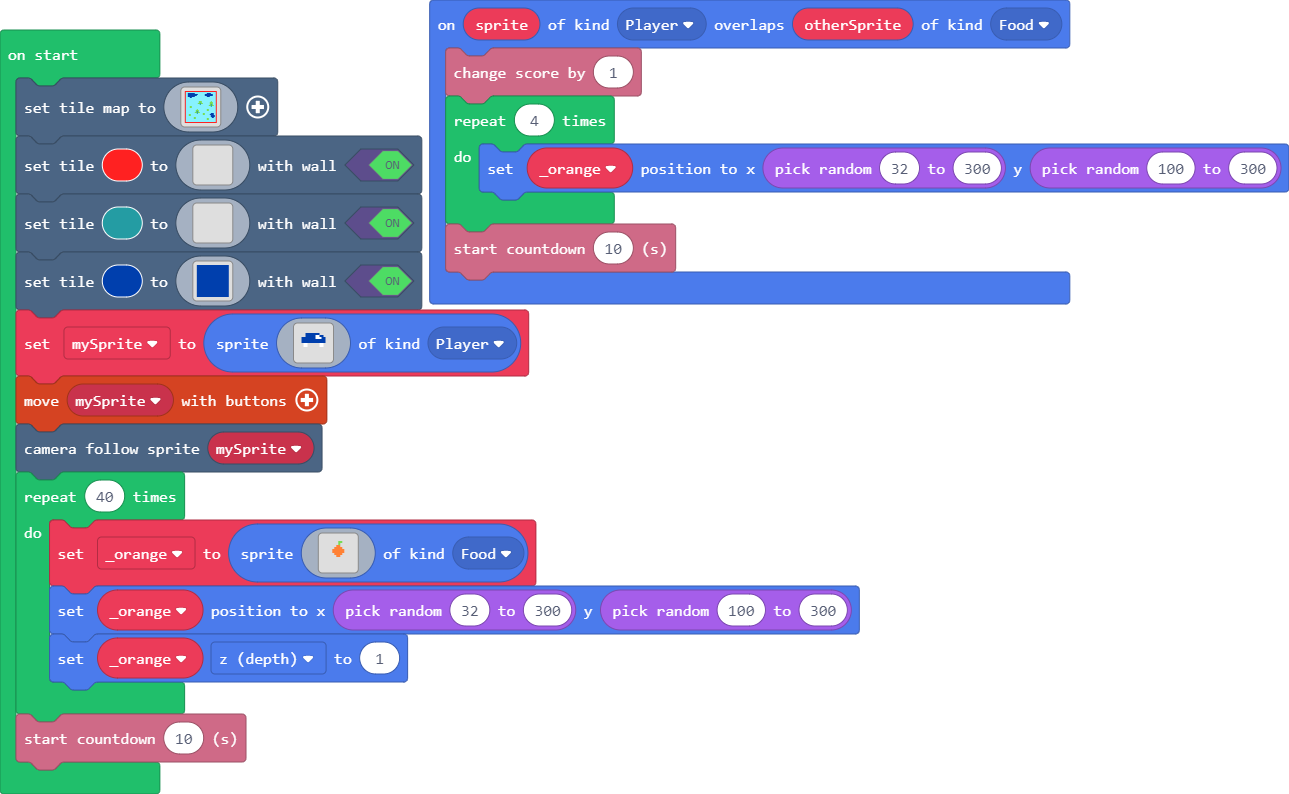
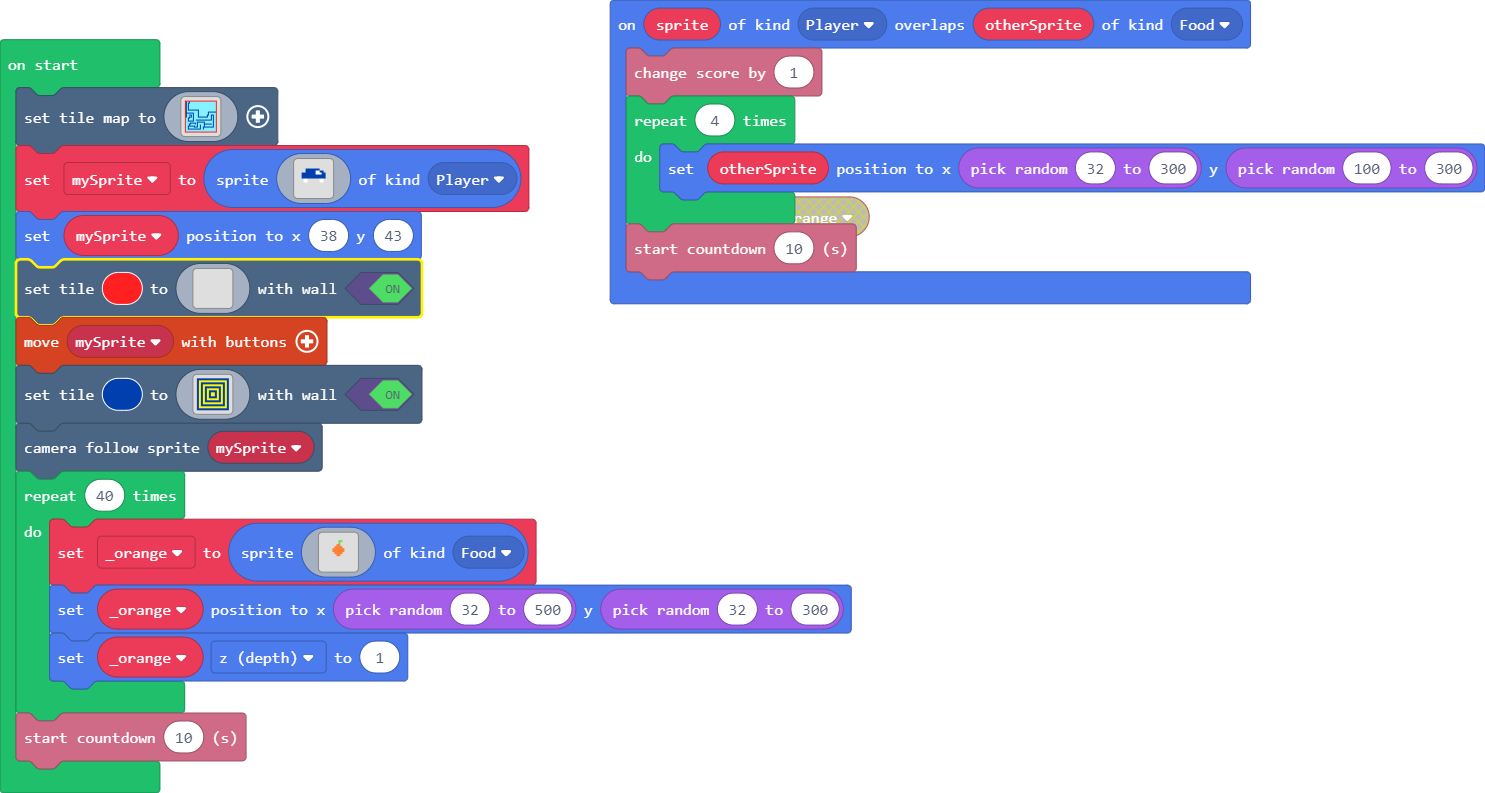
REAl final maze

Changed region(s): [[0.0, 0.0, 1.0, 1.0], [0.8068, 0.3329, 0.8689, 0.3934]]

diff --git a/main.ts b/main.ts
@@ -1,99 +1,45 @@
 sprites.onOverlap(SpriteKind.Player, SpriteKind.Food, function (sprite, otherSprite) {
     info.changeScoreBy(1)
     for (let index = 0; index < 4; index++) {
-        _orange.setPosition(Math.randomRange(32, 300), Math.randomRange(100, 300))
+        otherSprite.setPosition(Math.randomRange(32, 300), Math.randomRange(100, 300))
     }
     info.startCountdown(10)
 })
 let _orange: Sprite = null
 scene.setTileMap(img`
 2 2 2 2 2 2 2 2 2 2 2 2 2 2 2 2 2 2 2 2 2 2 2 2 2 2 2 2 2 2 2 2 
-2 9 9 9 9 9 9 9 9 9 9 9 9 9 9 9 9 9 9 9 9 9 9 9 9 9 9 9 9 9 9 2 
-2 9 9 8 8 8 8 8 8 8 9 9 9 9 9 9 9 9 9 9 9 9 8 8 8 8 9 9 9 9 9 2 
-2 9 9 8 8 8 8 8 8 8 8 8 8 9 9 9 9 9 9 9 8 8 8 8 8 8 8 8 9 9 9 2 
-2 9 9 8 8 8 8 8 8 8 8 8 9 9 9 9 9 9 9 9 8 8 8 8 8 8 8 8 9 9 9 2 
-2 9 9 8 8 8 8 8 8 8 9 9 9 9 9 9 9 9 9 9 9 9 8 8 8 9 9 9 9 9 9 2 
-2 9 9 9 9 8 8 9 9 9 9 9 9 9 9 9 9 9 9 9 9 9 9 9 9 9 9 9 9 9 9 2 
-2 9 9 9 9 9 9 9 9 9 9 9 9 9 9 9 9 9 9 9 9 9 9 9 9 9 9 9 9 9 9 2 
-2 9 9 9 9 9 9 9 9 9 9 9 9 9 9 9 9 9 9 9 9 9 9 9 9 9 9 9 9 9 9 2 
-2 9 9 9 9 9 9 9 9 9 9 9 9 9 9 9 9 9 9 9 9 9 9 9 9 9 9 9 9 9 9 2 
-2 9 9 9 9 9 9 9 9 9 9 9 9 9 7 7 7 9 9 9 9 9 9 9 9 9 7 9 9 9 9 2 
-2 9 9 9 9 9 9 9 9 9 9 9 9 9 7 7 7 9 9 9 9 9 9 9 9 7 7 7 9 9 9 2 
-2 9 9 9 9 9 9 9 9 9 9 9 9 7 7 6 7 7 9 9 9 9 9 9 9 7 7 7 9 9 9 2 
-2 9 9 9 9 9 9 9 9 9 9 9 9 9 9 6 9 9 9 9 9 9 9 9 9 7 6 7 9 9 9 2 
-2 9 9 9 9 9 9 9 9 9 9 9 9 9 9 9 9 9 9 9 9 9 9 9 7 7 6 7 7 9 9 2 
-2 9 9 9 9 7 7 9 9 9 9 9 9 9 9 9 9 9 9 9 9 9 9 9 9 9 6 9 9 9 9 2 
-2 9 9 9 9 7 7 9 9 9 9 9 9 9 9 9 9 9 9 9 9 9 9 9 9 9 9 9 9 9 9 2 
-2 9 9 9 9 9 9 9 9 9 9 9 9 9 9 9 9 9 9 9 9 9 9 9 9 9 9 9 9 9 9 2 
-2 9 9 9 9 9 9 9 9 9 9 9 7 9 9 9 9 9 9 9 9 9 7 7 9 9 9 9 9 9 9 2 
-2 9 9 9 9 9 9 9 9 9 9 7 7 7 9 9 9 9 9 9 9 9 7 7 9 9 9 9 9 9 9 2 
-2 9 9 9 9 9 9 9 9 9 9 7 6 7 9 9 9 9 9 9 9 9 9 9 9 9 9 9 9 9 9 2 
-2 9 9 9 9 9 9 9 9 9 7 7 6 7 7 9 9 9 9 9 9 9 9 9 9 9 9 9 9 9 9 2 
-2 9 9 9 9 9 9 9 9 9 9 9 6 9 9 9 9 9 7 7 9 9 9 9 9 9 8 8 8 9 9 2 
-2 9 9 9 7 7 9 9 9 9 9 9 9 9 9 9 9 9 7 7 9 9 9 9 9 8 8 8 8 9 9 2 
-2 9 9 9 7 7 9 9 9 9 9 9 9 9 9 9 9 9 9 9 9 9 9 9 9 9 8 8 8 8 9 2 
-2 9 9 9 9 9 9 9 9 9 9 9 9 9 9 9 9 9 9 9 9 9 9 9 9 9 8 8 8 8 9 2 
-2 9 9 9 9 9 9 9 9 7 7 9 9 9 9 9 9 9 9 9 9 9 9 9 9 9 9 8 8 9 9 2 
-2 9 9 9 9 9 9 9 9 7 7 9 9 9 9 9 9 9 9 9 9 9 7 7 9 9 9 9 9 9 9 2 
-2 9 9 9 9 9 9 9 9 9 9 9 9 9 9 9 9 9 9 9 9 9 7 7 9 9 9 9 9 9 9 2 
+2 8 9 9 8 9 9 9 9 9 9 9 9 9 9 9 9 9 9 9 9 9 9 9 9 9 9 9 9 9 9 2 
+2 8 9 8 8 9 9 9 9 9 9 9 9 9 9 9 9 9 9 9 9 9 9 9 9 9 9 9 9 9 9 2 
+2 8 9 8 9 9 9 9 9 9 9 9 9 9 9 9 9 9 9 9 9 9 9 9 9 9 9 9 9 9 9 2 
+2 8 9 8 9 9 9 9 9 9 9 9 9 9 9 9 9 9 9 9 9 9 9 9 9 9 9 9 9 9 9 2 
+2 8 9 8 9 9 9 9 9 9 9 9 9 9 9 9 9 9 9 9 9 9 9 9 9 9 9 9 9 9 9 2 
+2 8 9 8 9 9 9 9 9 9 9 9 9 9 9 9 9 9 9 9 9 9 9 9 9 9 9 9 9 9 9 2 
+2 8 9 8 9 9 9 9 9 9 9 9 9 9 9 9 9 9 9 9 9 9 9 9 9 9 9 9 9 9 9 2 
+2 8 9 8 9 9 9 9 9 9 9 9 9 9 9 9 9 9 9 9 9 9 9 9 9 9 9 9 9 9 9 2 
+2 8 9 8 8 8 8 8 8 8 8 8 8 8 9 9 9 9 9 9 9 9 9 9 9 9 9 9 9 9 9 2 
+2 8 9 9 9 9 9 9 9 9 9 9 9 8 9 9 9 9 9 9 9 9 9 9 9 9 9 9 9 9 9 2 
+2 8 9 9 9 9 9 9 9 9 9 9 9 8 9 9 9 9 9 9 9 9 9 8 8 8 8 8 8 8 8 2 
+2 8 8 8 8 8 8 8 8 9 9 9 9 8 9 9 9 9 9 9 9 9 9 8 9 9 9 9 9 9 9 2 
+2 8 9 9 9 9 9 9 8 9 9 9 9 8 9 9 9 9 9 9 9 9 9 8 9 9 9 9 9 9 9 2 
+2 8 9 9 8 8 8 9 8 9 9 9 9 8 9 9 9 9 9 9 9 9 8 8 9 9 8 8 8 9 9 2 
+2 8 9 9 9 9 8 9 8 9 9 9 9 8 9 9 9 9 9 9 9 9 8 9 9 9 8 9 8 9 9 2 
+2 8 9 9 8 8 8 9 8 9 9 9 9 8 8 8 8 8 8 8 8 8 8 9 9 9 8 9 8 9 9 2 
+2 9 9 8 8 9 9 9 8 9 9 9 9 9 9 9 9 9 9 9 9 9 9 9 9 9 8 9 8 9 9 2 
+2 9 9 8 9 9 9 9 8 9 9 9 9 9 9 9 9 9 9 9 9 9 9 9 9 9 8 9 8 9 9 2 
+2 9 9 8 9 9 9 9 8 9 9 8 8 8 8 8 8 8 8 8 8 8 8 8 8 8 8 9 8 9 9 2 
+2 9 9 8 8 8 8 8 8 9 9 9 9 9 9 9 9 9 9 9 9 9 9 9 9 9 9 9 8 9 9 2 
+2 9 9 9 9 9 9 9 9 9 9 9 8 8 8 8 8 8 8 8 9 9 9 9 9 9 9 9 8 9 9 2 
+2 9 9 9 9 8 8 8 8 8 8 9 8 9 9 9 9 9 9 8 9 9 9 9 9 9 9 9 8 9 9 2 
+2 9 9 9 8 8 9 9 9 9 8 9 8 9 9 9 9 9 9 8 8 8 8 8 8 8 8 9 8 9 9 2 
+2 9 9 9 8 9 9 9 9 9 9 9 8 9 9 8 9 9 9 8 9 9 9 9 9 9 9 9 8 9 9 2 
+2 9 9 8 8 8 8 8 8 8 9 9 8 9 9 8 9 9 9 8 9 9 9 9 9 9 9 9 8 9 9 2 
+2 9 9 8 9 9 9 9 9 8 8 8 8 9 9 8 9 9 8 8 8 8 8 8 8 8 8 8 8 9 9 2 
+2 9 9 8 9 9 9 9 9 9 9 9 9 9 9 8 9 9 8 9 9 9 9 9 9 9 9 9 9 9 9 2 
+2 9 9 8 8 8 8 8 8 8 8 8 8 8 8 8 9 9 8 9 9 9 9 9 9 9 9 9 9 9 9 2 
 2 9 9 9 9 9 9 9 9 9 9 9 9 9 9 9 9 9 9 9 9 9 9 9 9 9 9 9 9 9 9 2 
 2 9 9 9 9 9 9 9 9 9 9 9 9 9 9 9 9 9 9 9 9 9 9 9 9 9 9 9 9 9 9 2 
 2 2 2 2 2 2 2 2 2 2 2 2 2 2 2 2 2 2 2 2 2 2 2 2 2 2 2 2 2 2 2 2 
 `)
-scene.setTile(2, img`
-. . . . . . . . . . . . . . . . 
-. . . . . . . . . . . . . . . . 
-. . . . . . . . . . . . . . . . 
-. . . . . . . . . . . . . . . . 
-. . . . . . . . . . . . . . . . 
-. . . . . . . . . . . . . . . . 
-. . . . . . . . . . . . . . . . 
-. . . . . . . . . . . . . . . . 
-. . . . . . . . . . . . . . . . 
-. . . . . . . . . . . . . . . . 
-. . . . . . . . . . . . . . . . 
-. . . . . . . . . . . . . . . . 
-. . . . . . . . . . . . . . . . 
-. . . . . . . . . . . . . . . . 
-. . . . . . . . . . . . . . . . 
-. . . . . . . . . . . . . . . . 
-`, true)
-scene.setTile(6, img`
-. . . . . . . . . . . . . . . . 
-. . . . . . . . . . . . . . . . 
-. . . . . . . . . . . . . . . . 
-. . . . . . . . . . . . . . . . 
-. . . . . . . . . . . . . . . . 
-. . . . . . . . . . . . . . . . 
-. . . . . . . . . . . . . . . . 
-. . . . . . . . . . . . . . . . 
-. . . . . . . . . . . . . . . . 
-. . . . . . . . . . . . . . . . 
-. . . . . . . . . . . . . . . . 
-. . . . . . . . . . . . . . . . 
-. . . . . . . . . . . . . . . . 
-. . . . . . . . . . . . . . . . 
-. . . . . . . . . . . . . . . . 
-. . . . . . . . . . . . . . . . 
-`, true)
-scene.setTile(8, img`
-8 8 8 8 8 8 8 8 8 8 8 8 8 8 8 8 
-8 8 8 8 8 8 8 8 8 8 8 8 8 8 8 8 
-8 8 8 8 8 8 8 8 8 8 8 8 8 8 8 8 
-8 8 8 8 8 8 8 8 8 8 8 8 8 8 8 8 
-8 8 8 8 8 8 8 8 8 8 8 8 8 8 8 8 
-8 8 8 8 8 8 8 8 8 8 8 8 8 8 8 8 
-8 8 8 8 8 8 8 8 8 8 8 8 8 8 8 8 
-8 8 8 8 8 8 8 8 8 8 8 8 8 8 8 8 
-8 8 8 8 8 8 8 8 8 8 8 8 8 8 8 8 
-8 8 8 8 8 8 8 8 8 8 8 8 8 8 8 8 
-8 8 8 8 8 8 8 8 8 8 8 8 8 8 8 8 
-8 8 8 8 8 8 8 8 8 8 8 8 8 8 8 8 
-8 8 8 8 8 8 8 8 8 8 8 8 8 8 8 8 
-8 8 8 8 8 8 8 8 8 8 8 8 8 8 8 8 
-8 8 8 8 8 8 8 8 8 8 8 8 8 8 8 8 
-8 8 8 8 8 8 8 8 8 8 8 8 8 8 8 8 
-`, true)
 let mySprite = sprites.create(img`
 . . . . . . . . . . . . . . . . 
 . . . . . . . . . . . . . . . . 
@@ -112,7 +58,44 @@ let mySprite = sprites.create(img`
 . . . . . . . . . . . . . . . . 
 . . . . . . . . . . . . . . . . 
 `, SpriteKind.Player)
+mySprite.setPosition(38, 43)
+scene.setTile(2, img`
+. . . . . . . . . . . . . . . . 
+. . . . . . . . . . . . . . . . 
+. . . . . . . . . . . . . . . . 
+. . . . . . . . . . . . . . . . 
+. . . . . . . . . . . . . . . . 
+. . . . . . . . . . . . . . . . 
+. . . . . . . . . . . . . . . . 
+. . . . . . . . . . . . . . . . 
+. . . . . . . . . . . . . . . . 
+. . . . . . . . . . . . . . . . 
+. . . . . . . . . . . . . . . . 
+. . . . . . . . . . . . . . . . 
+. . . . . . . . . . . . . . . . 
+. . . . . . . . . . . . . . . . 
+. . . . . . . . . . . . . . . . 
+. . . . . . . . . . . . . . . . 
+`, true)
 controller.moveSprite(mySprite)
+scene.setTile(8, img`
+8 8 8 8 8 8 8 8 8 8 8 8 8 8 8 8 
+8 5 5 5 5 5 5 5 5 5 5 5 5 5 5 8 
+8 5 8 8 8 8 8 8 8 8 8 8 8 8 5 8 
+8 5 8 5 5 5 5 5 5 5 5 5 5 8 5 8 
+8 5 8 5 8 8 8 8 8 8 8 8 5 8 5 8 
+8 5 8 5 8 5 5 5 5 5 5 8 5 8 5 8 
+8 5 8 5 8 5 8 8 8 8 5 8 5 8 5 8 
+8 5 8 5 8 5 8 5 5 8 5 8 5 8 5 8 
+8 5 8 5 8 5 8 5 5 8 5 8 5 8 5 8 
+8 5 8 5 8 5 8 8 8 8 5 8 5 8 5 8 
+8 5 8 5 8 5 5 5 5 5 5 8 5 8 5 8 
+8 5 8 5 8 8 8 8 8 8 8 8 5 8 5 8 
+8 5 8 5 5 5 5 5 5 5 5 5 5 8 5 8 
+8 5 8 8 8 8 8 8 8 8 8 8 8 8 5 8 
+8 5 5 5 5 5 5 5 5 5 5 5 5 5 5 8 
+8 8 8 8 8 8 8 8 8 8 8 8 8 8 8 8 
+`, true)
 scene.cameraFollowSprite(mySprite)
 for (let index = 0; index < 40; index++) {
     _orange = sprites.create(img`
@@ -133,7 +116,7 @@ for (let index = 0; index < 40; index++) {
 . . . . . . . . . . . . . . . . 
 . . . . . . . . . . . . . . . . 
 `, SpriteKind.Food)
-    _orange.setPosition(Math.randomRange(32, 300), Math.randomRange(100, 300))
+    _orange.setPosition(Math.randomRange(32, 500), Math.randomRange(32, 300))
     _orange.z = 1
 }
 info.startCountdown(10)
